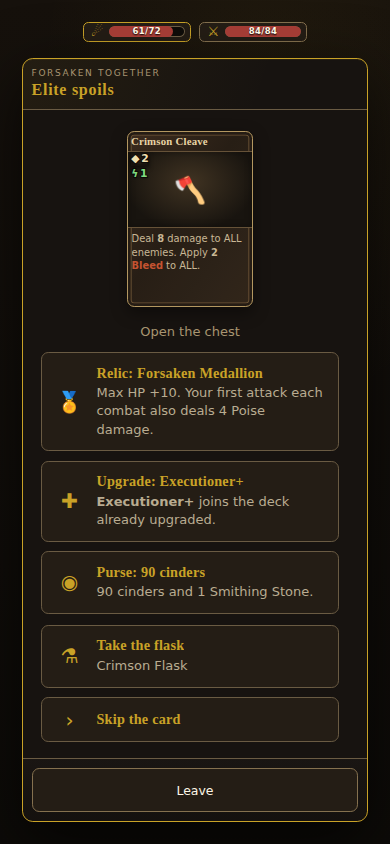
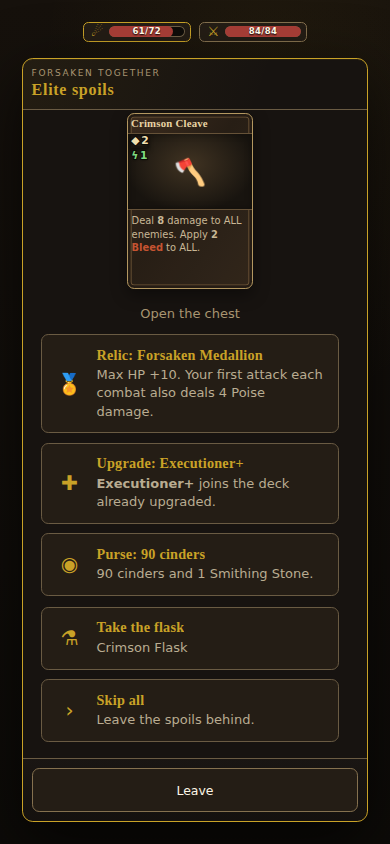
Stage co-op reward picks behind one Continue
A co-op reward tap sent chooseReward at once, and the host marks the
seat chosen and closes the door when nobody else waits, so a chest tap
lost the elite's card and a card tap lost the chest (Codex P1; certain
in a one-seat session). Every row (card, relic, flask, chest option)
now only stages its pick, marked selected across re-renders, and one
Continue sends the whole pick; the host already grants all rows from one
message under the per-seat claimed guard. The catch-up door stages the
same way. Regression test: card and chest land together.

Claude-Session: https://claude.ai/code/session_01WtZoQ4ef1DTf4X48gT3n5K

Changed region(s): [[0.0923, 0.1232, 0.8923, 0.8626], [0.1538, 0.4313, 0.2154, 0.4929], [0.0923, 0.7085, 0.1231, 0.7393]]

diff --git a/src/ui/screens/coop.js b/src/ui/screens/coop.js
@@ -1109,8 +1109,8 @@ export function mountCoop(app, { registries, conn, myId, myIds, meta, onSettings
   }
   const waiting = (text) => flavour(text, { class: 'coop-note' });
   /** A way on: the kit's OptionCard, no chevron, with the seat's data hooks. */
-  function choice({ name, description = '', glyph: g = '', disabled = false, reason = '', attrs = {}, className = '' }) {
-    const card = optionCard({ glyph: g, name, description, arrow: false, disabled, attrs, className });
+  function choice({ name, description = '', glyph: g = '', disabled = false, reason = '', attrs = {}, className = '', selected = false }) {
+    const card = optionCard({ glyph: g, name, description, arrow: false, disabled, attrs, className, selected });
     if (reason) attachTooltip(card, () => esc(reason));
     return card;
   }
@@ -1123,15 +1123,15 @@ export function mountCoop(app, { registries, conn, myId, myIds, meta, onSettings
    */
   // Each option carries its own listener (`onPick(relicId)`), so the id it
   // keeps is bound where the option is made, never re-read from the DOM.
-  function relicTakes(offer, dataKey, onPick) {
+  function relicTakes(offer, dataKey, onPick, chosenId = null) {
     const ids = offeredRelicIds(offer);
     if (!ids.length) return [];
     const single = offer.relicId || ids.length === 1;
     return (single ? ids.slice(0, 1) : ids).map((id) => {
       const def = registries.relics.get(id);
       const card = single
-        ? choice({ glyph: '◆', name: 'Take the relic', description: def.name, className: 'coop-take coop-relic-take', attrs: { dataset: { [dataKey]: 'relic', relicId: id } } })
-        : choice({ glyph: def.icon || '◆', name: def.name, description: relicText(def, registries), className: 'coop-take coop-relic-take coop-boss-relic', attrs: { dataset: { [dataKey]: 'relic', relicId: id } } });
+        ? choice({ glyph: '◆', name: 'Take the relic', description: def.name, selected: chosenId === id, className: 'coop-take coop-relic-take', attrs: { dataset: { [dataKey]: 'relic', relicId: id } } })
+        : choice({ glyph: def.icon || '◆', name: def.name, description: relicText(def, registries), selected: chosenId === id, className: 'coop-take coop-relic-take coop-boss-relic', attrs: { dataset: { [dataKey]: 'relic', relicId: id } } });
       card.addEventListener('click', () => onPick(id));
       return card;
     });
@@ -1142,13 +1142,13 @@ export function mountCoop(app, { registries, conn, myId, myIds, meta, onSettings
    * it takes. `takeable` (the host's catch-up reading) draws a stale option
    * disabled with its reason; the host refuses it either way.
    */
-  function chestTakes(offer, takeable, dataKey, onPick) {
+  function chestTakes(offer, takeable, dataKey, onPick, chosenIndex = null) {
     const list = offer && offer.chest && Array.isArray(offer.chest.options) ? offer.chest.options : [];
     return list.map((option, i) => {
       const view = chestOptionView(registries, option);
       const open = !Array.isArray(takeable) || takeable[i] !== false;
       const card = choice({
-        glyph: view.glyph, name: `${view.label}: ${view.name}`, disabled: !open,
+        glyph: view.glyph, name: `${view.label}: ${view.name}`, disabled: !open, selected: open && chosenIndex === i,
         reason: open ? '' : 'This no longer fits your deck: it changed since the chest was rolled. Choose another.',
         className: 'coop-take coop-chest-option', attrs: { dataset: { [dataKey]: 'chest', chestIndex: String(i) } },
       });
@@ -1159,25 +1159,45 @@ export function mountCoop(app, { registries, conn, myId, myIds, meta, onSettings
       return card;
     });
   }
+  // ONE DOOR, ONE COMPLETION (like solo's Continue). A reward door offers a
+  // card, a relic (or a boss choice), a flask and an elite chest; each tap
+  // only STAGES that row's pick, and Continue sends the whole pick at once —
+  // the host grants every staged row in one message and marks the seat done.
+  // Sending on the first tap closed the door on the rest (a chest tap lost the
+  // card, a card tap lost the chest). The staged pick survives re-renders
+  // (other seats' snapshots) for as long as the same door stands.
+  let staged = { key: null, pick: null };
+  function stagedPick(key) {
+    if (staged.key !== key) staged = { key, pick: { cardId: null, takeRelic: false, relicId: null, flask: false, chestIndex: null } };
+    return staged.pick;
+  }
+  const toggle = (pick, field, value) => { pick[field] = pick[field] === value ? (field === 'flask' ? false : null) : value; };
+  // The door's rows, each tap staging into `pick`; `onDone(pick)` sends it.
+  function spoilsRows(offer, { takeable = null, dataKey, pick, onDone, relicOnly = false }) {
+    const grid = relicOnly ? null : el('div', { class: 'reward-row' });
+    for (const cid of relicOnly ? [] : offer.cardIds || []) {
+      const card = renderCard(registries, { cardId: cid, upgraded: false }, {});
+      if (pick.cardId === cid) { card.classList.add('selected'); card.setAttribute('aria-pressed', 'true'); }
+      card.addEventListener('click', () => { toggle(pick, 'cardId', cid); render(); });
+      grid.appendChild(card);
+    }
+    const relics = relicTakes(offer, dataKey, (relicId) => { toggle(pick, 'relicId', relicId); pick.takeRelic = pick.relicId != null; render(); }, pick.relicId);
+    const chest = relicOnly ? [] : chestTakes(offer, takeable, dataKey, (i) => { toggle(pick, 'chestIndex', i); render(); }, pick.chestIndex);
+    const flask = !relicOnly && offer.flaskId
+      ? choice({ glyph: '⚗', name: 'Take the flask', description: registries.flasks.get(offer.flaskId).name, selected: pick.flask, className: 'coop-take', attrs: { dataset: { [dataKey]: 'flask' } } })
+      : null;
+    if (flask) flask.addEventListener('click', () => { toggle(pick, 'flask', true); render(); });
+    const any = pick.cardId || pick.relicId || pick.flask || pick.chestIndex != null;
+    const done = choice({ glyph: '›', name: any ? 'Continue' : 'Skip all', description: any ? 'Take what you chose.' : 'Leave the spoils behind.', className: 'coop-continue', attrs: { dataset: { [dataKey]: 'done' } } });
+    done.addEventListener('click', () => onDone({ ...pick }));
+    return { grid, relics, chest, takes: [...relics, flask, done] };
+  }
   function renderReward() {
     const offer = snap.scene.offers[me];
-    if (!offer) { sceneDoor({ title: 'Spoils', children: [waiting('Waiting for the others to choose…')] }); return; }
+    if (!offer || (snap.scene.chosen && snap.scene.chosen[me])) { sceneDoor({ title: 'Spoils', children: [waiting('Waiting for the others to choose…')] }); return; }
     const stone = offer.smithingStoneReceipt;
-    const grid = el('div', { class: 'reward-row' });
-    let pick = { cardId: null, takeRelic: false, relicId: null, flask: false };
-    const submit = () => send({ t: 'chooseReward', pick });
-    offer.cardIds.forEach((cid) => {
-      const card = renderCard(registries, { cardId: cid, upgraded: false }, {});
-      card.addEventListener('click', () => { pick.cardId = cid; submit(); });
-      grid.appendChild(card);
-    });
-    const relics = relicTakes(offer, 'take', (relicId) => { pick.takeRelic = true; pick.relicId = relicId; submit(); });
-    const chest = chestTakes(offer, offer.chestTakeable, 'take', (chestIndex) => { pick.chestIndex = chestIndex; submit(); });
-    const takes = [
-      ...relics,
-      offer.flaskId ? choice({ glyph: '⚗', name: 'Take the flask', description: registries.flasks.get(offer.flaskId).name, className: 'coop-take', attrs: { dataset: { take: 'flask' } } }) : null,
-      choice({ glyph: '›', name: 'Skip the card', attrs: { dataset: { take: 'skip' } } }),
-    ];
+    const pick = stagedPick(`reward:${snap.actNumber}:${snap.floor}:${JSON.stringify(offer)}`);
+    const { grid, relics, chest, takes } = spoilsRows(offer, { dataKey: 'take', pick, onDone: (p) => send({ t: 'chooseReward', pick: p }) });
     sceneDoor({
       title: `${String(snap.scene.pool || 'The').replace(/^./, (c) => c.toUpperCase())} spoils`,
       note: stone?.amount > 0 ? `⚒ ${stone.amount} Smithing Stone secured · ${stone.stoneBalanceAfter} total` : '',
@@ -1186,12 +1206,8 @@ export function mountCoop(app, { registries, conn, myId, myIds, meta, onSettings
         relics.length > 1 ? subtitle(t('reward.relic.eyebrow')) : null,
         chest.length ? subtitle(t('reward.chest.eyebrow')) : null,
         chest.length ? options(chest, { class: 'coop-choices coop-chest' }) : null,
-        options(takes, { class: 'coop-choices' }),
+        options(takes.filter(Boolean), { class: 'coop-choices' }),
       ],
-    });
-    app.querySelectorAll('[data-take]').forEach((b) => {
-      if (b.dataset.take === 'relic' || b.dataset.take === 'chest') return; // wired where made
-      b.addEventListener('click', () => { if (b.dataset.take === 'flask') pick.flask = true; submit(); });
     });
   }
   function renderShrine() {
@@ -1351,30 +1367,23 @@ export function mountCoop(app, { registries, conn, myId, myIds, meta, onSettings
       }));
       return;
     }
-    const grid = item.type === 'reward' ? el('div', { class: 'reward-row' }) : null;
-    const resolve = (pick) => send({ t: 'catchupChoice', index: 0, pick });
-    const takeRelic = (relicId) => resolve({ takeRelic: true, relicId });
-    const relics = item.type === 'reward' ? relicTakes(item.offer, 'cu', takeRelic)
-      : item.type === 'treasure' && item.relicId ? relicTakes({ relicId: item.relicId }, 'cu', takeRelic) : [];
-    // A missed elite chest replays its STORED options (SPEC §3.8.1, co-op).
-    const chest = item.type === 'reward' ? chestTakes(item.offer, item.chestTakeable, 'cu', (chestIndex) => resolve({ chestIndex })) : [];
+    const offer = item.type === 'reward' ? item.offer : { cardIds: [], relicId: item.relicId || null };
+    const pick = stagedPick(`cu:${remaining}:${JSON.stringify(item)}`);
+    const { grid, relics, chest, takes } = spoilsRows(offer, {
+      takeable: item.chestTakeable, dataKey: 'cu', pick, relicOnly: item.type !== 'reward',
+      onDone: (p) => send({ t: 'catchupChoice', index: 0, pick: p }),
+    });
     sceneDoor({
       title, eyebrow: debt,
       note: 'Claim what you would have earned while away.',
       children: [
         grid,
+        relics.length > 1 ? subtitle(t('reward.relic.eyebrow')) : null,
         chest.length ? subtitle(t('reward.chest.eyebrow')) : null,
         chest.length ? options(chest, { class: 'coop-choices coop-chest' }) : null,
-        options([
-          ...relics,
-          choice({ glyph: '›', name: 'Skip', attrs: { dataset: { cu: 'skip' } } }),
-        ], { class: 'coop-choices' }),
+        options(takes.filter(Boolean), { class: 'coop-choices' }),
       ],
     });
-    if (grid) {
-      item.offer.cardIds.forEach((cid) => { const card = renderCard(registries, { cardId: cid, upgraded: false }, {}); card.addEventListener('click', () => resolve({ cardId: cid })); grid.appendChild(card); });
-    }
-    app.querySelectorAll('[data-cu]').forEach((b) => { if (b.dataset.cu !== 'relic' && b.dataset.cu !== 'chest') b.addEventListener('click', () => resolve({})); });
   }
   function renderComplete() {
     const win = snap.scene.victory;

diff --git a/SPEC.md b/SPEC.md
@@ -455,8 +455,10 @@ object in its catch-up entry, so the catch-up replays the stored options and nev
   drawn, so no payload roll is spent on it). A co-op chest therefore offers up to three of
   `relic`, `upgrade`, `cinders`.
 - **Claim.** A pick names one option by index (`chooseReward` / `resolveCatchup` with
-  `chestIndex`), and like every co-op take it is the seat's one pick for that door (a card, a
-  relic, a flask, or a chest option). The host grants it through `applyChestOption`, the solo
+  `chestIndex`). The co-op door, like solo's, lets a seat take a row of each kind — the card,
+  the relic, the flask and one chest option: each tap only stages its row and the seat's single
+  **Continue** ("Skip all" with nothing staged) sends the whole pick in one message, which the
+  host grants row by row, once per seat (`scene.claimed`), before marking the seat done. The host grants it through `applyChestOption`, the solo
   grant; an index outside the stored options lands nothing. A pick that **cannot land now** is
   refused with nothing mutated and the door stays open: only a catch-up can meet one, when an
   earlier replayed entry has since upgraded or removed the deck instance an `owned` upgrade
